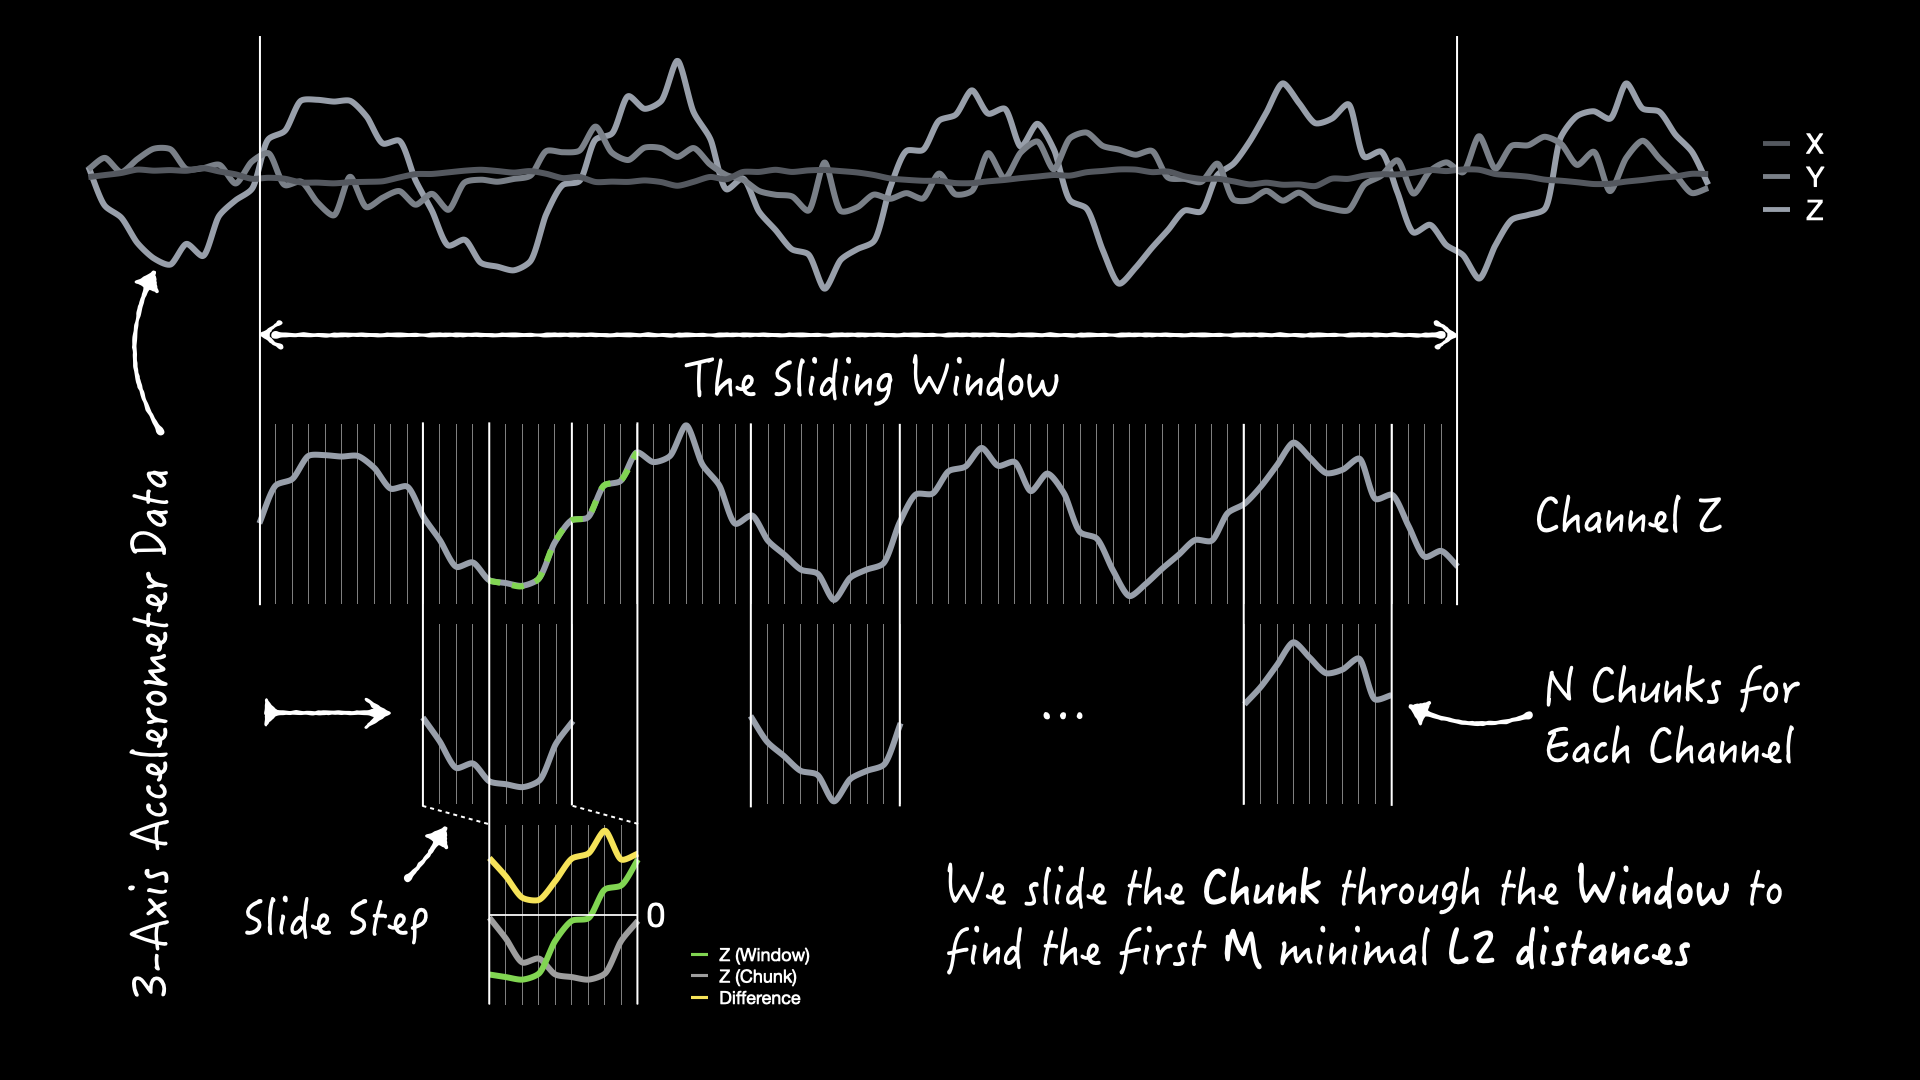
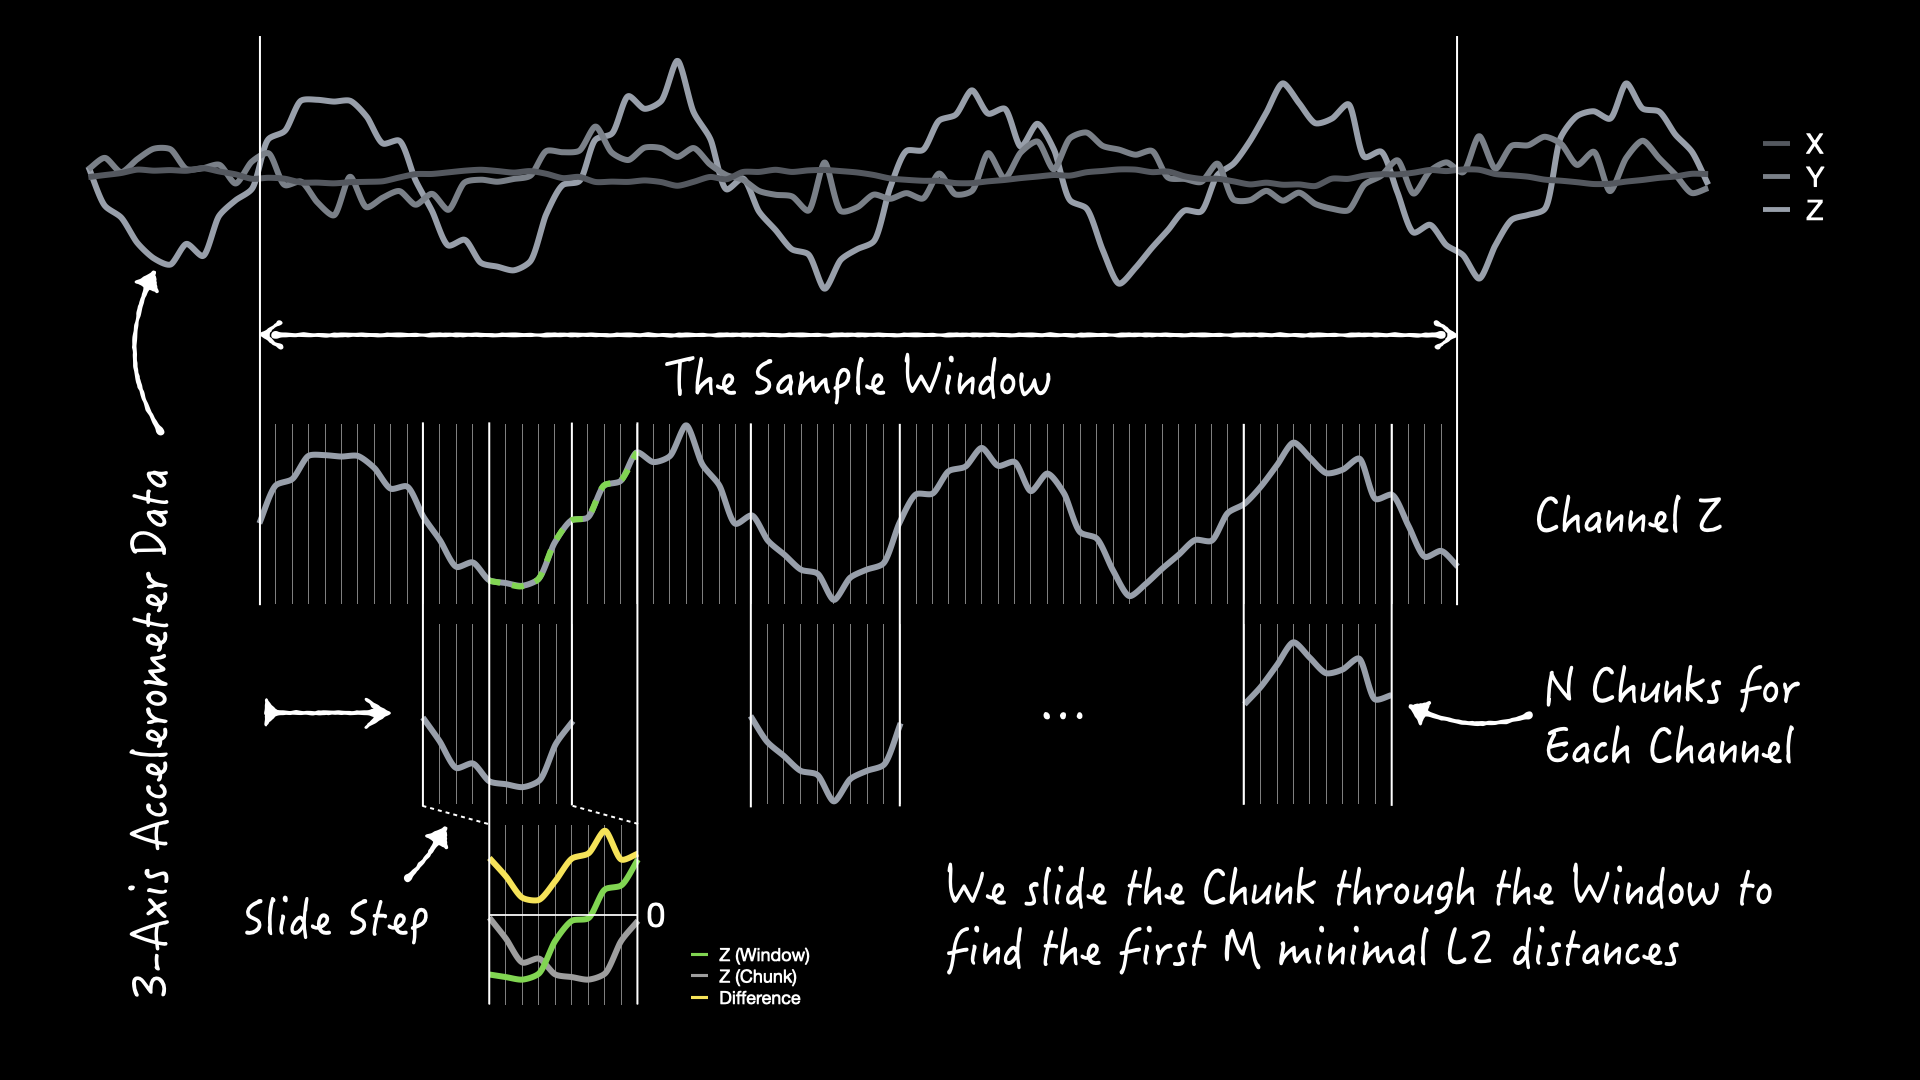
docs: refine wording

Changed region(s): [[0.625, 0.7944, 0.9375, 0.9167], [0.3438, 0.3056, 0.5625, 0.3667]]

diff --git a/docs/algorithms/gedad/how-it-works.md b/docs/algorithms/gedad/how-it-works.md
@@ -14,7 +14,7 @@ The objective of the learning phase is to establish a **baseline template of nor
 
 ![Learning Process Example](learning_example.png)
 
-1.  **Template Generation**: First, a `sliding window` of 3-axis acceleration data, sized to cover a complete normal operational cycle, is collected to serve as the **template data**.
+1.  **Template Generation**: First, a `sample window` of 3-axis acceleration data, sized to cover a complete normal operational cycle, is collected to serve as the **template data**.
 2.  **Distance Calculation**: The algorithm then randomly samples `N` short data segments or named `chunks` from identical positions within each channel of the template. Each chunk is then slid across the entire template of its corresponding channel with a defined `sliding step`, calculating the Euclidean (L2) distance at each position.
 3.  **Threshold Calculation**: Next, outliers are filtered from these distances (e.g., using the 3σ rule; specifically, values less than a given EPS). For each channel, the remaining distances are sorted to identify the `M` smallest values. An average **threshold** is then computed for each channel from these `M` distances, defining the boundary between normal and abnormal states.
 4.  **Parameter Calibration**: Finally, an additional parameter, `C`, is determined by finding the median counts of consecutive instances where the Euclidean distance is below the threshold during a subsequent comparison. This parameter is stored to enhance detection accuracy in the next phase.
